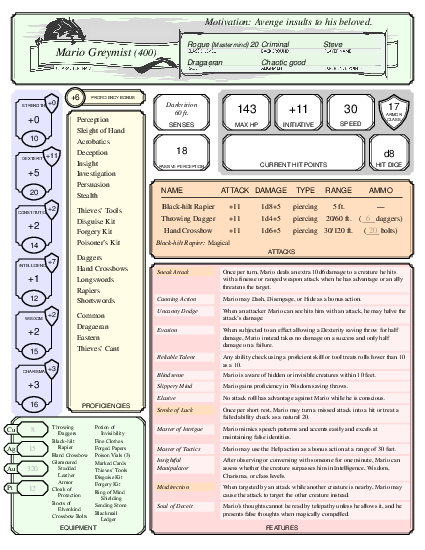
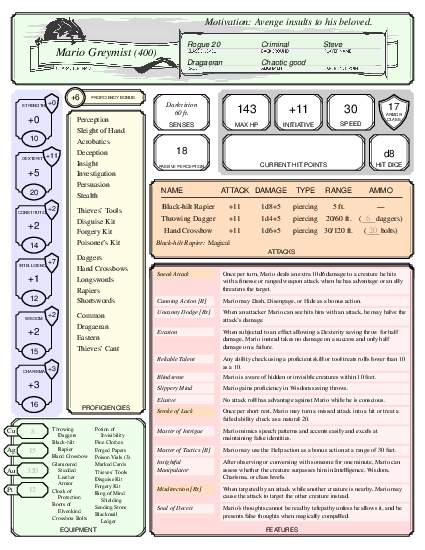
add GM sheet preview to README

Changed region(s): [[0.0, 0.4636, 0.9788, 0.9891], [0.4894, 0.0618, 0.6118, 0.0927]]

diff --git a/README.md b/README.md
@@ -128,7 +128,15 @@ If you want help, ask.
 
 If you do install the software locally, you get a couple of other goodies.
 In particular, you can create a [one-page summary of characters'
-important abilities and stats, for a GM to use at the table](gmsheet.pdf).
+important abilities and stats, for a GM to use at the table](gmsheet.pdf):
+
+<div align="center">
+  <a href="gmsheet.pdf">
+    <img src="gmsheet-preview.png"
+         style="width:50%; height:auto;"
+         alt="A summary I use at the table">
+  </a>
+</div>
 
 
 